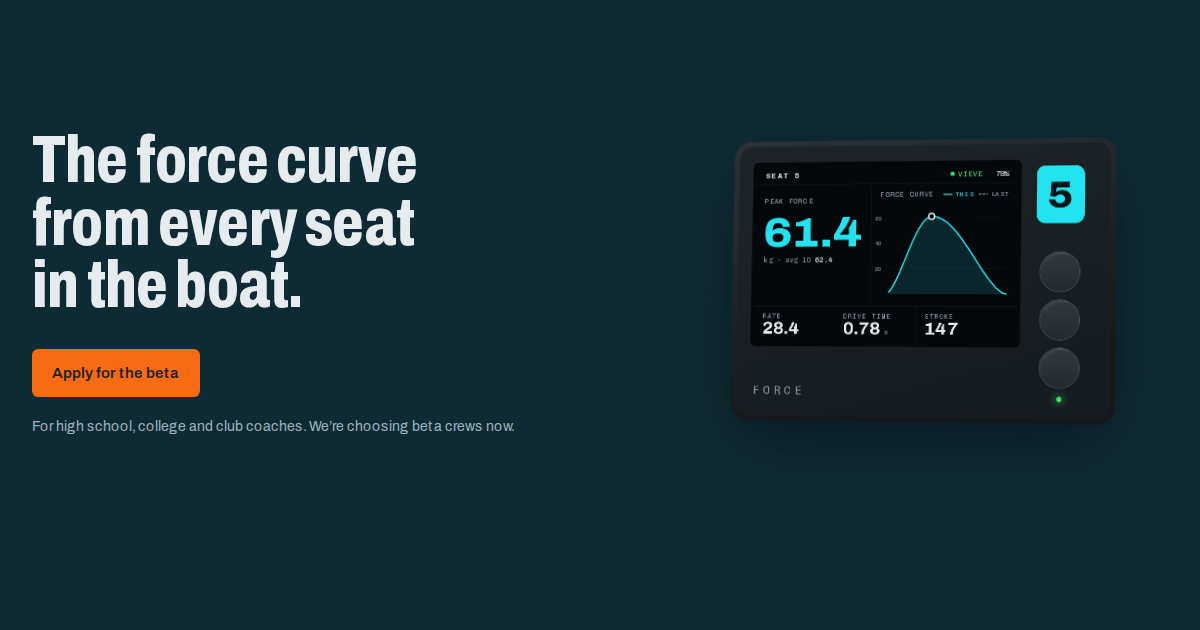
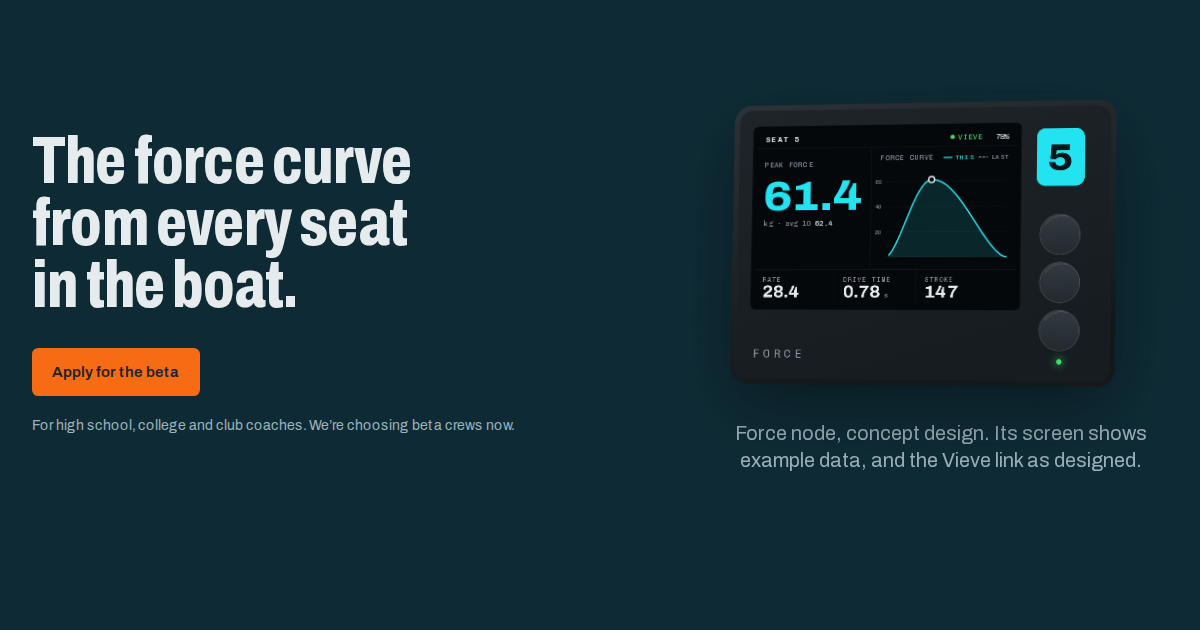
fix(LEG-010, BIZ-005, CNT-001): the share image carries the hero's example-data caption
public/og.png still showed the node's screen with kilograms and a lit
Vieve link and nothing saying it was example data, the one rendering of
that screen without the caption the pages carry. It is re-rendered from
the live hero as before, now with the hero's own caption under the node:
"Force node, concept design. Its screen shows example data, and the Vieve
link as designed." The URL moves to ?v=3 so shared links pick it up, and
the alt text says the screen shows example data.

Claude-Session: https://claude.ai/code/session_01EPgF9AjXwiyfGJYED2nz2V

diff --git a/lib/site.ts b/lib/site.ts
@@ -20,10 +20,10 @@ export const titleTemplate = "%s · RowTech";
  * image by its URL, so a new one needs a new URL to show.
  */
 const shareImage = {
-  url: "/og.png?v=2",
+  url: "/og.png?v=3",
   width: 1200,
   height: 630,
-  alt: "Concept render of a Force node, its screen showing a force curve, next to the home page’s headline and an Apply for the beta button.",
+  alt: "Concept render of a Force node, its screen showing example data and a force curve, captioned as a concept design, next to the home page’s headline and an Apply for the beta button.",
 };
 
 // What every page shares when it's shared. Next replaces a parent's openGraph

diff --git a/tests/seo.spec.ts b/tests/seo.spec.ts
@@ -51,6 +51,8 @@ for (const { path, title } of PAGES) {
       expect(alt, key).toBeTruthy();
       expect(alt!.toLowerCase(), key).not.toContain("the force curve from every seat in the boat");
       expect(alt, key).not.toBe(title);
+      // The node's screen in the image shows example data, and says so (LEG-010).
+      expect(alt, key).toContain("example data");
     }
   });
 }
